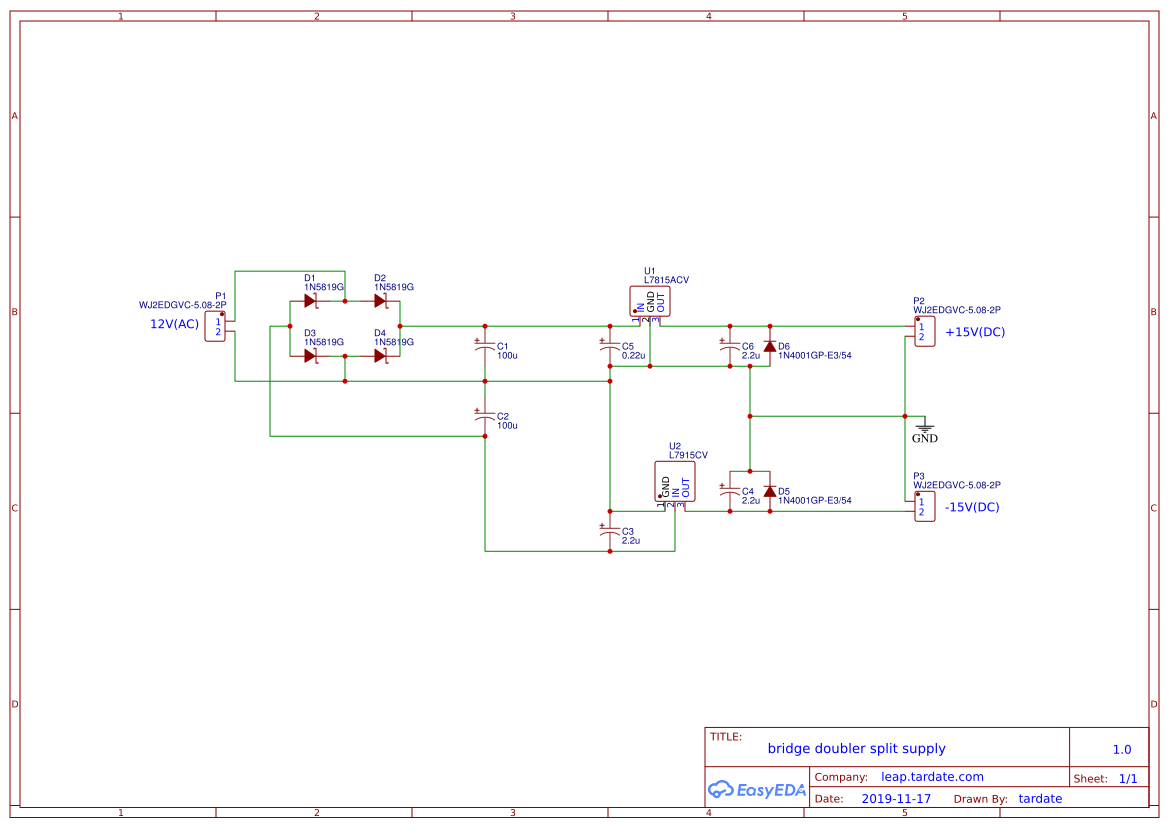
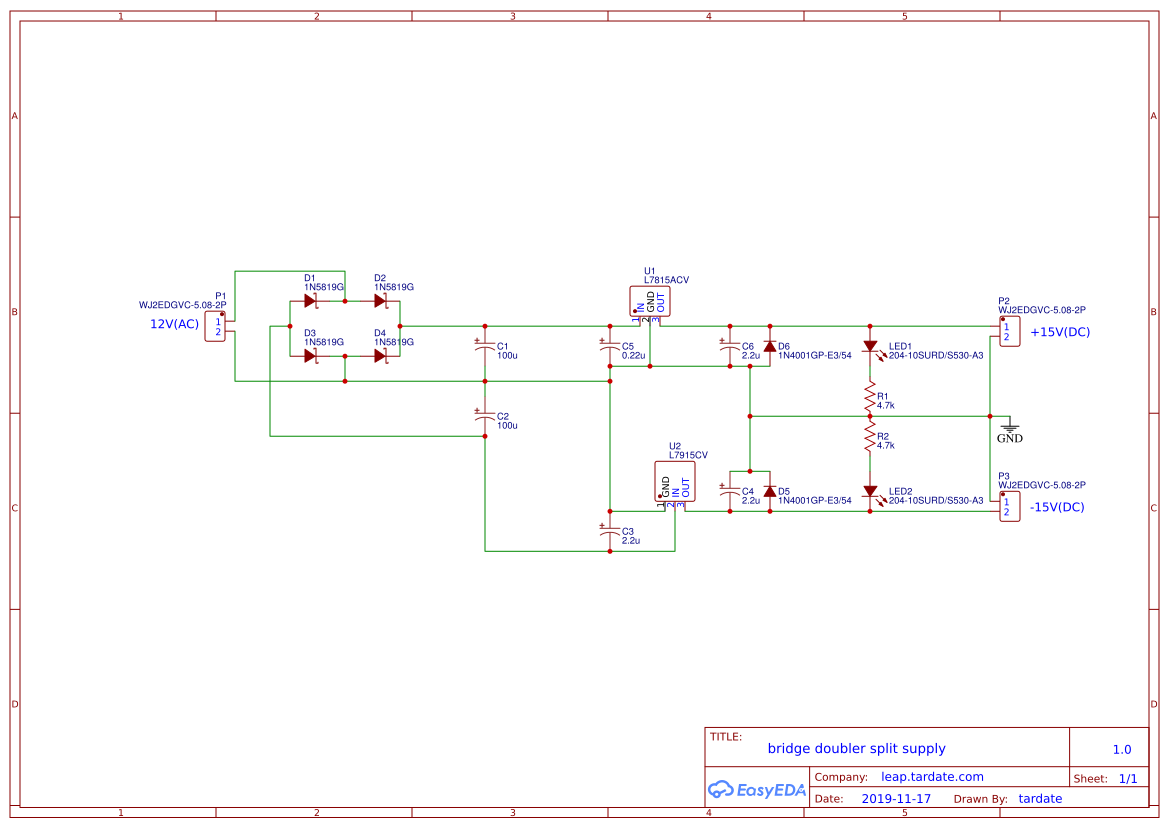
[BridgeDoublerSplitSupply] more notes

Changed region(s): [[0.7391, 0.3623, 0.9239, 0.5435], [0.7391, 0.5737, 0.9239, 0.6341], [0.8315, 0.4831, 0.8931, 0.5435]]

diff --git a/Electronics101/Power/BridgeDoublerSplitSupply/README.md b/Electronics101/Power/BridgeDoublerSplitSupply/README.md
@@ -67,7 +67,9 @@ In the trace:
 
 ![scope_regulated_output](./assets/scope_regulated_output.gif?raw=true)
 
-Transferred to protoboard with the following layout:
+Transferred to protoboard with the following layout.
+I've included some gratuitous LEDs on each side of the supply - a pair of 5mm strawhat LEDs with 4.7kΩ current-limiting resistors.
+Green for the +15V rail, red for the -15V rail:
 
 ![BridgeDoublerSplitSupply_layout](./assets/BridgeDoublerSplitSupply_layout.jpg?raw=true)
 
